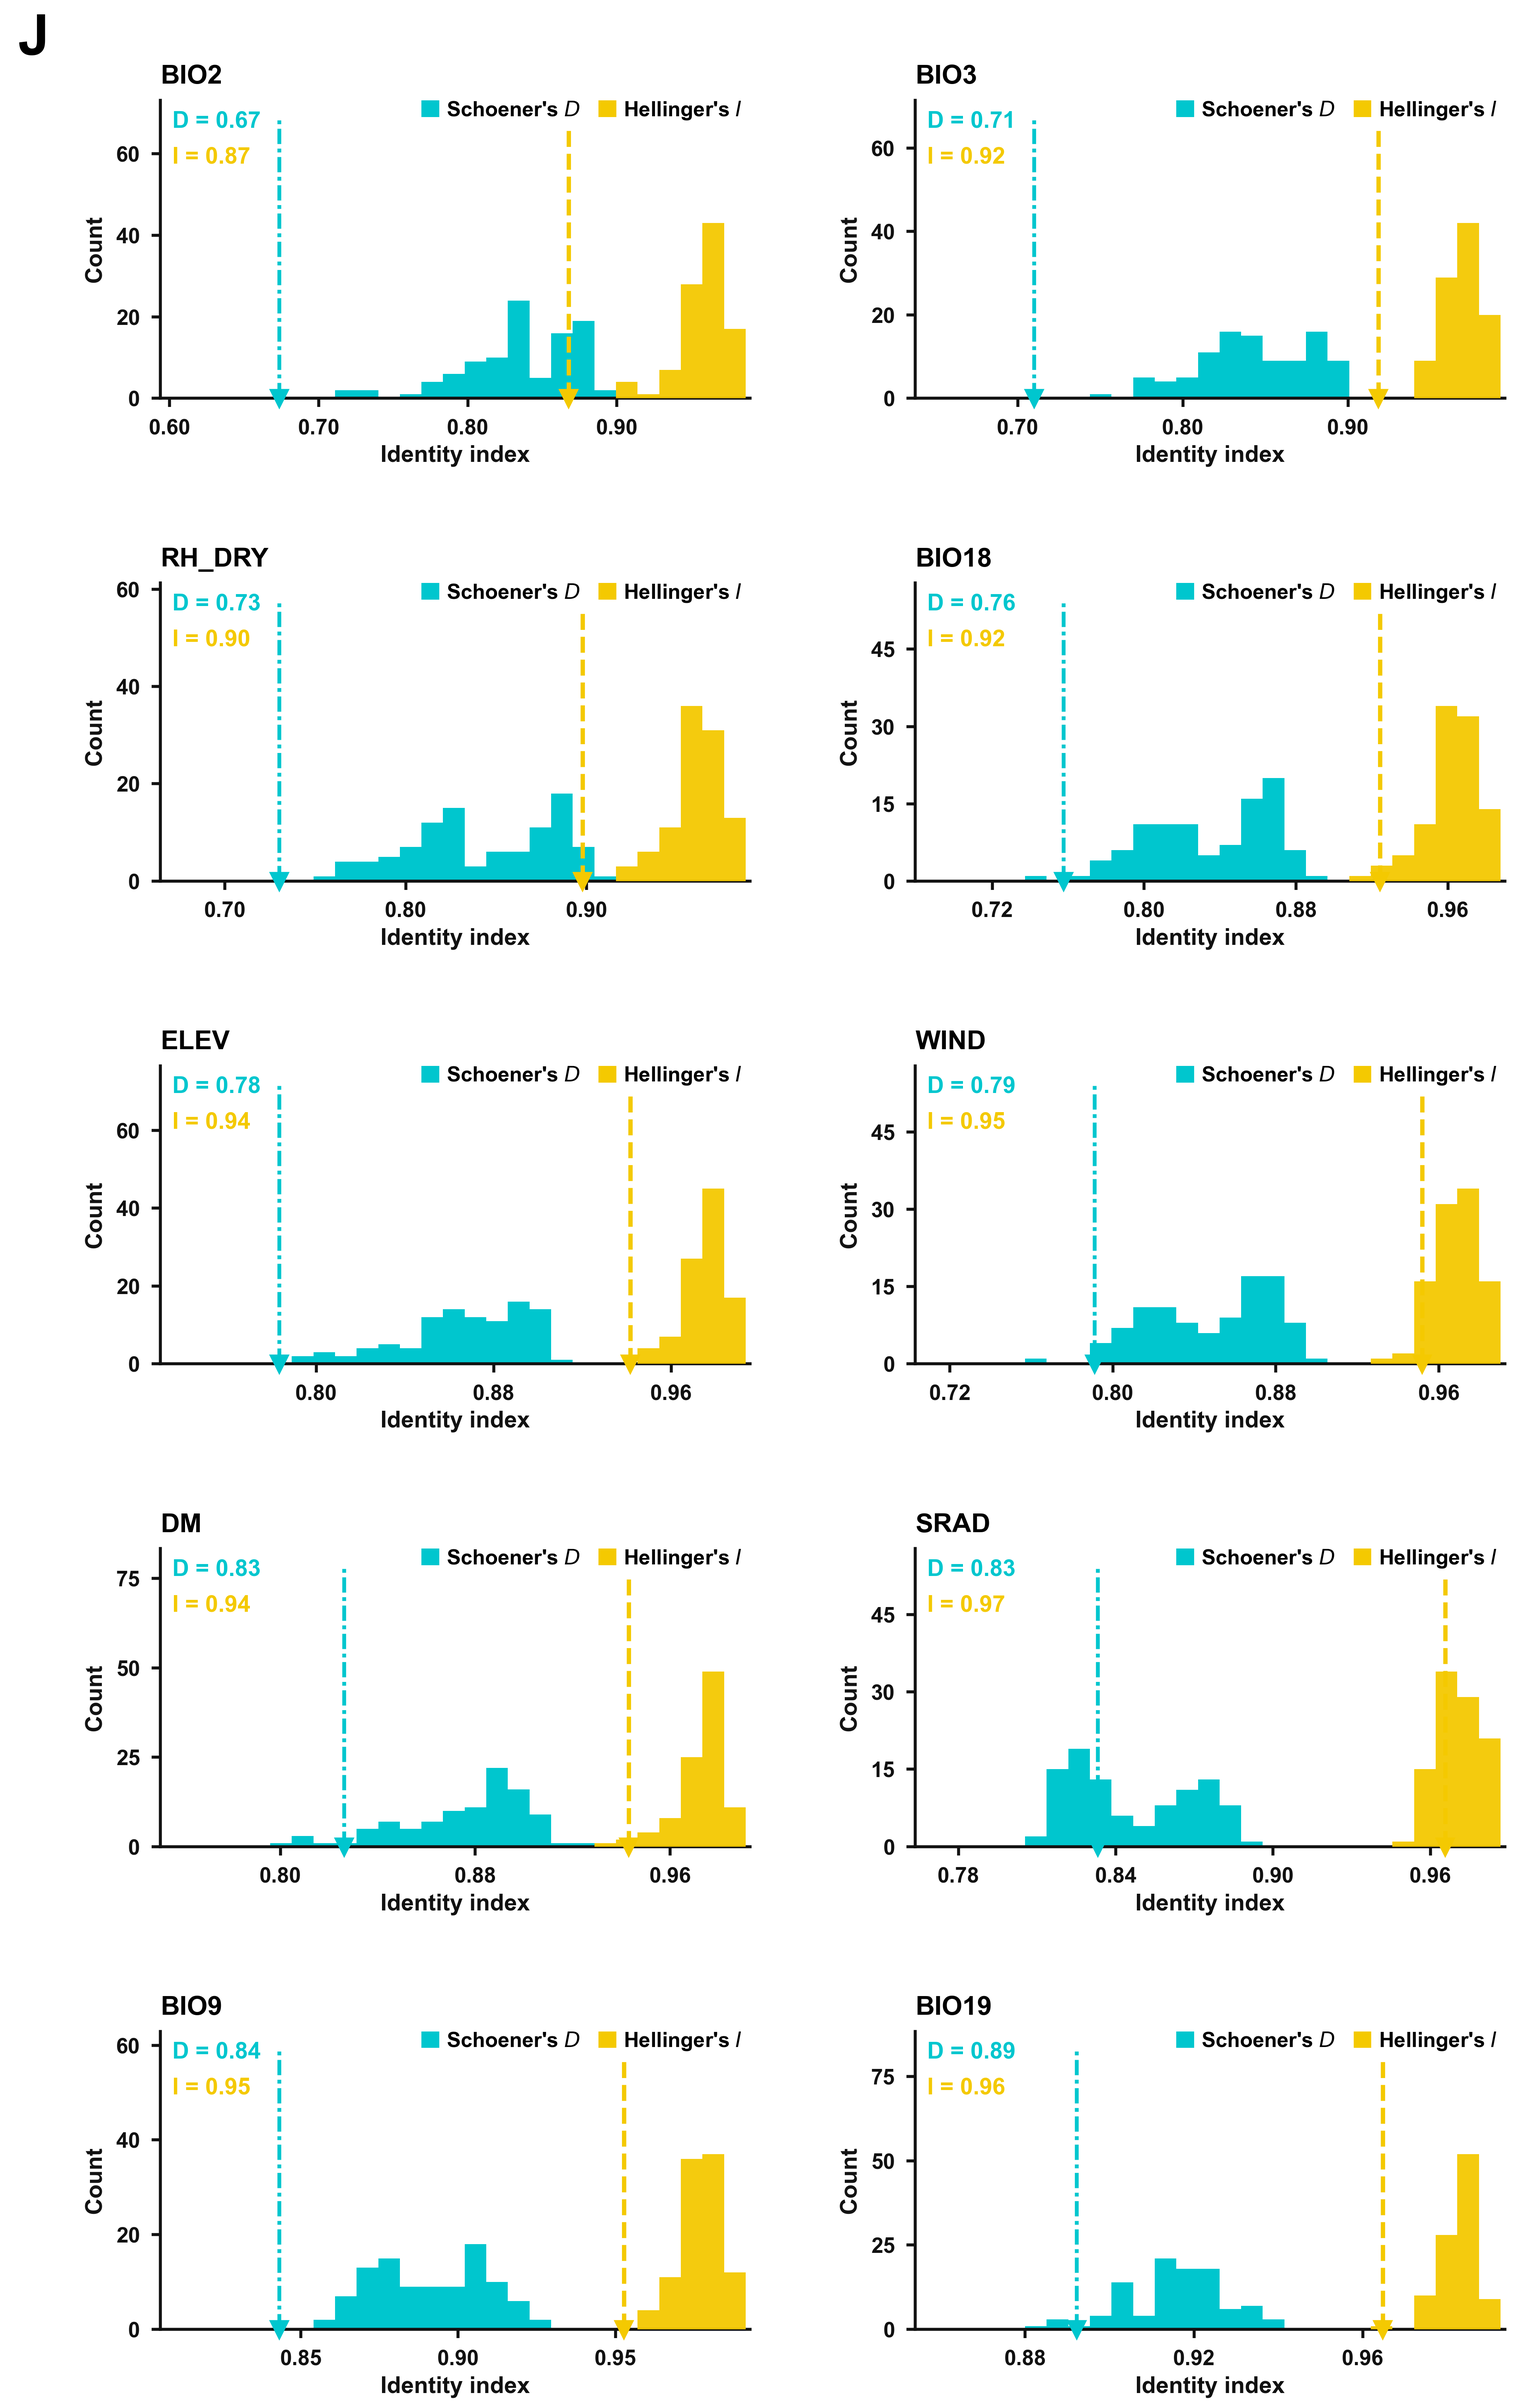
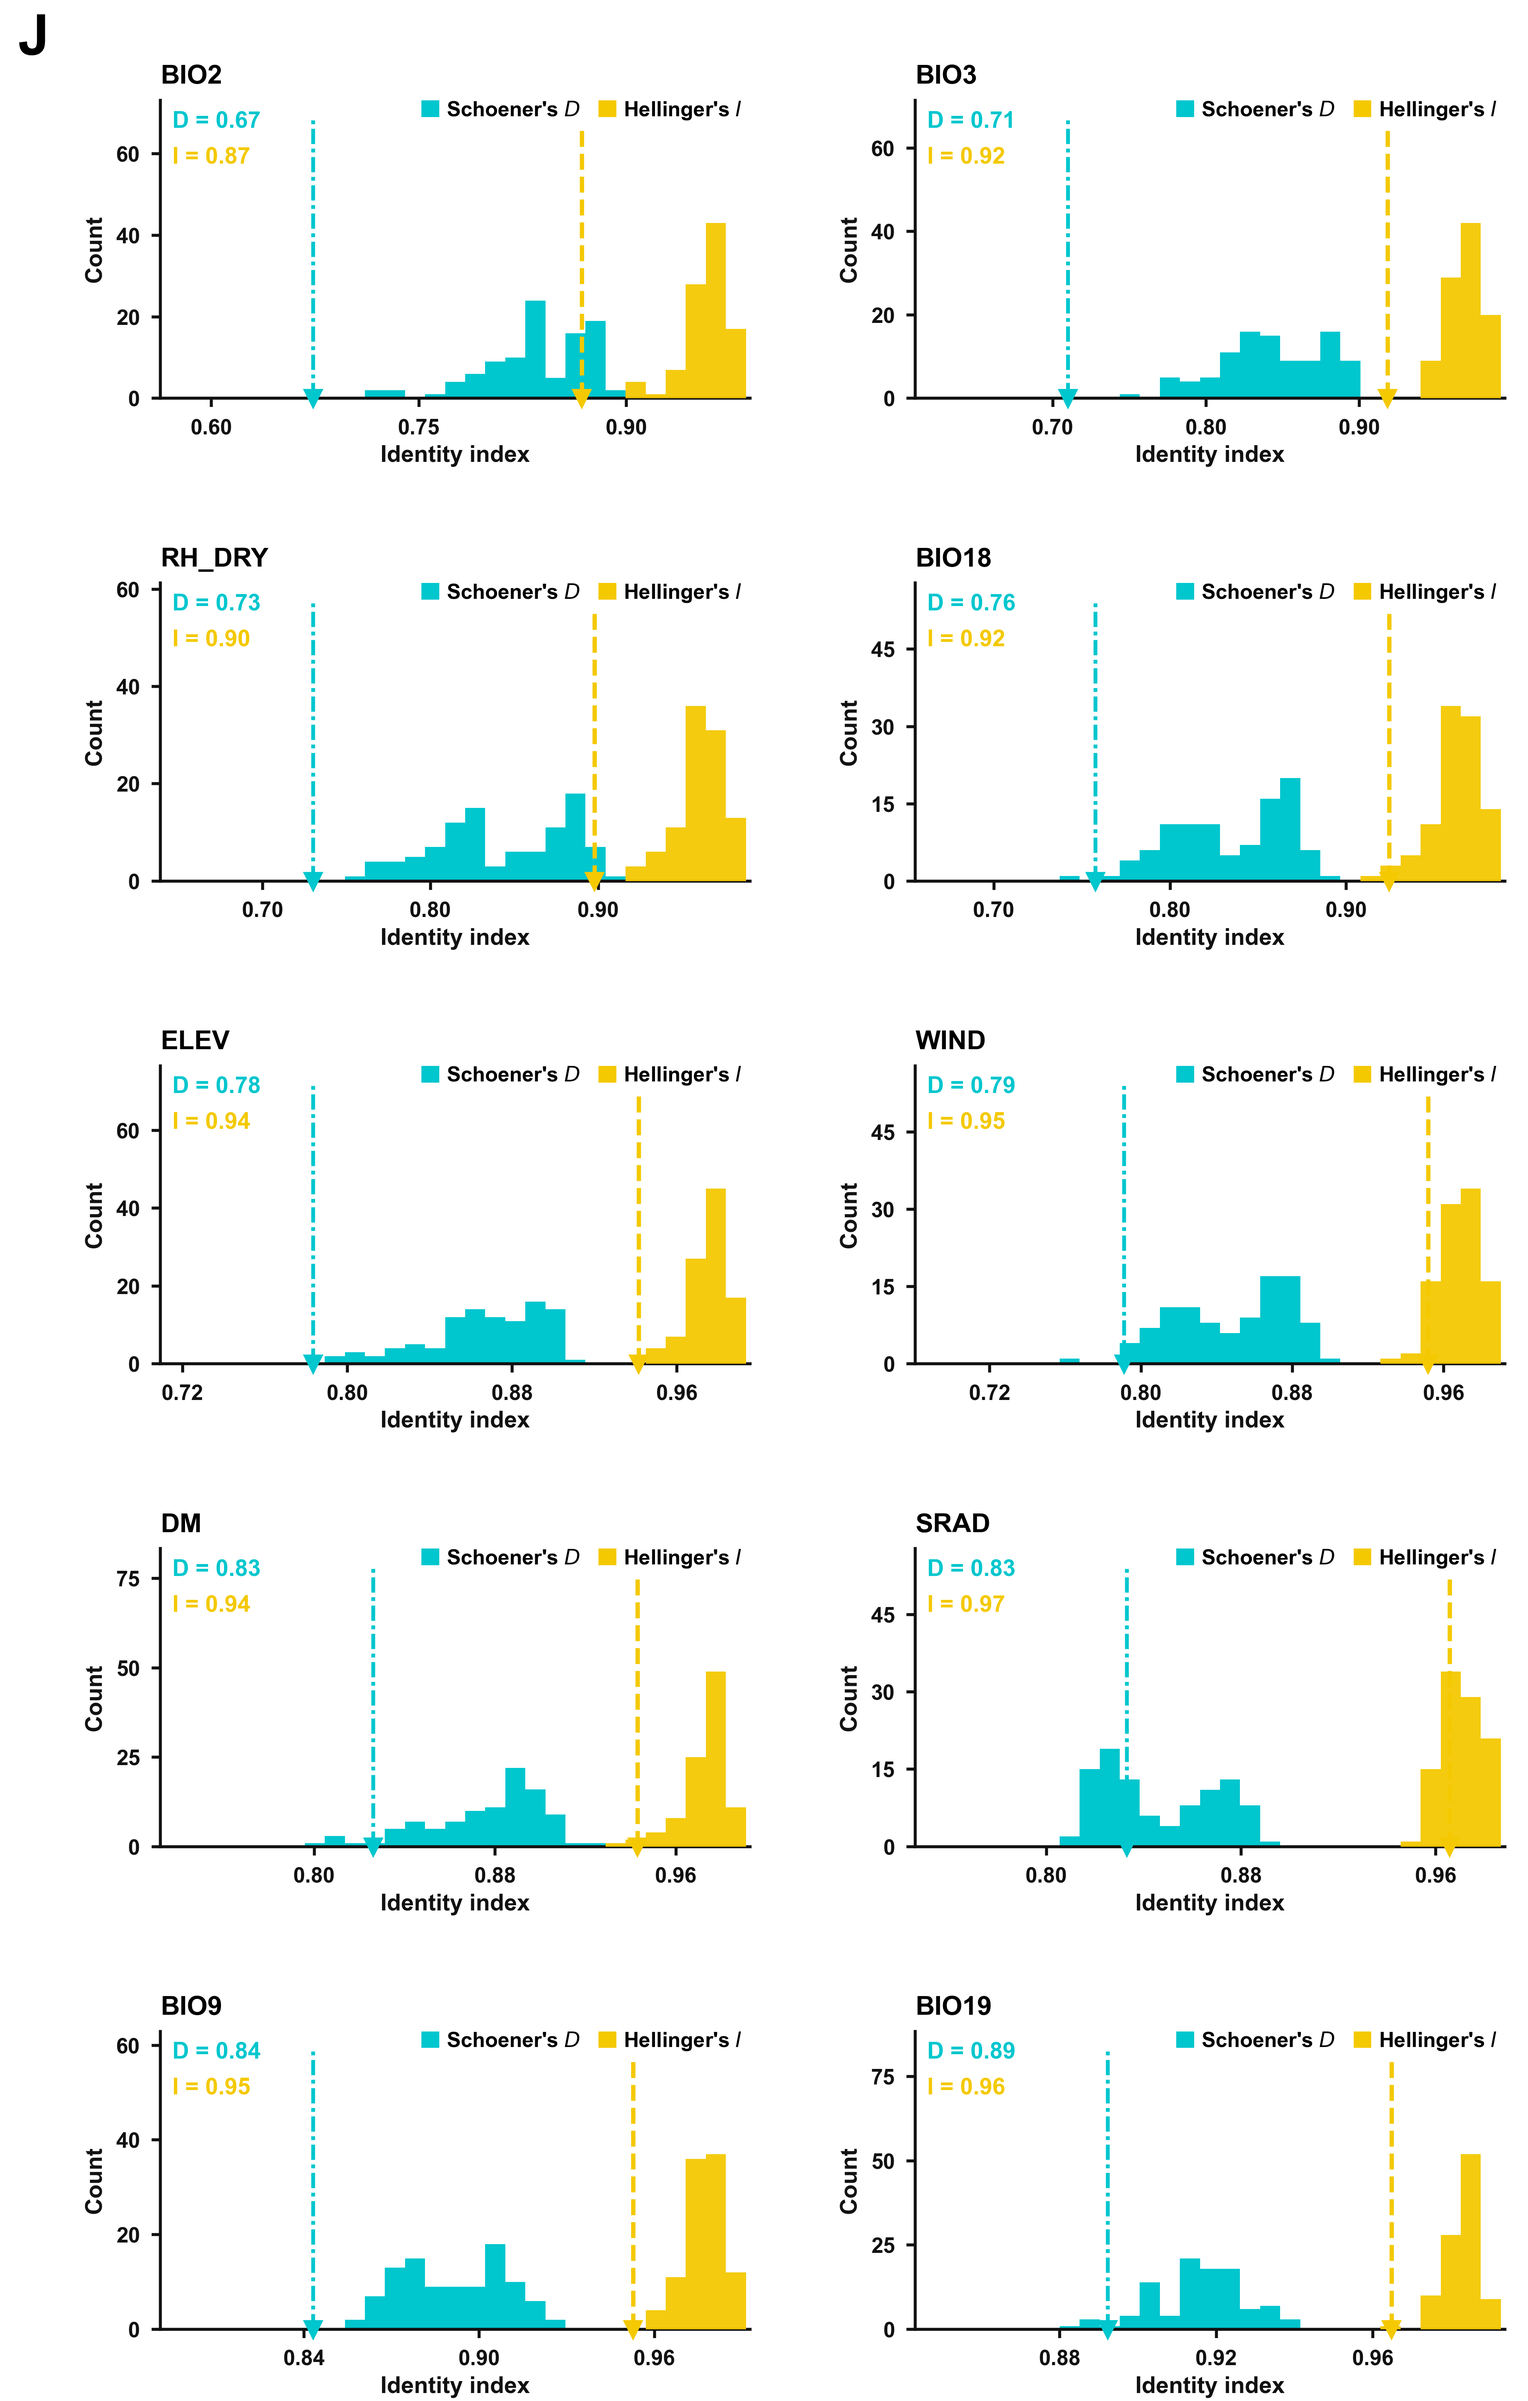
niche_overlap_null: widen the D=/I= label gutter so the numbers clear the rules
Re-rendered 600 dpi PNG + vector PDF; README updated to match.

diff --git a/niche_overlap_null/plot_niche_overlap_null.py b/niche_overlap_null/plot_niche_overlap_null.py
@@ -103,7 +103,7 @@ def draw_panel(ax, var: str, d_null: np.ndarray, i_null: np.ndarray,
     hi = max(d_null.max(), i_null.max(), d_obs, i_obs)
     span = hi - lo if hi > lo else 0.02
     # 左边留出 30% 的空槽放 D = / I = 文本（原图也是左边大片留白）
-    xlo = 0.0 if lo < 0.06 else lo - 0.26 * span
+    xlo = 0.0 if lo < 0.06 else lo - 0.36 * span
     xhi = hi + 0.03 * span
 
     if edges is None:

diff --git a/niche_overlap_null/README.md b/niche_overlap_null/README.md
@@ -177,7 +177,7 @@ null <- replicate(100, {
 * 字体 Arial（无则退 Helvetica / DejaVu Sans），标题、轴标签、刻度全部 bold；
 * 只留左/下 spine；柱状图无描边；观测线 D 用点划线、I 用虚线；
 * 600 dpi PNG + 矢量 PDF（文字可编辑，`pdf.fonttype=42`）；
-* 左侧留 26% 空槽放 `D = … / I = …`（原图左侧大片留白也是这个用法）。
+* 左侧留约 36% 空槽放 `D = … / I = …`（原图左侧大片留白也是这个用法）。
 
 ---
 
